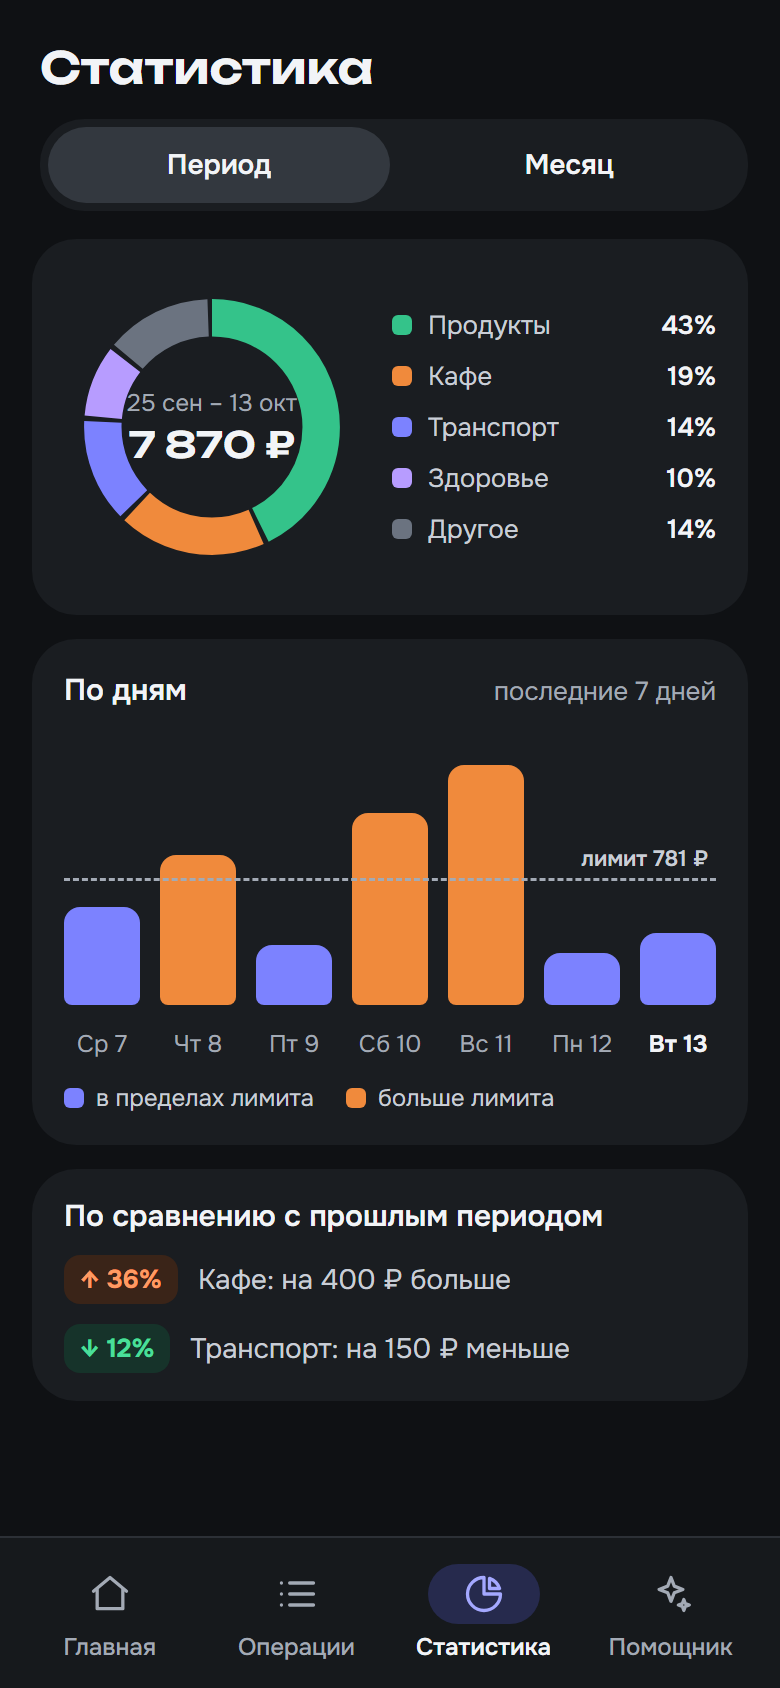
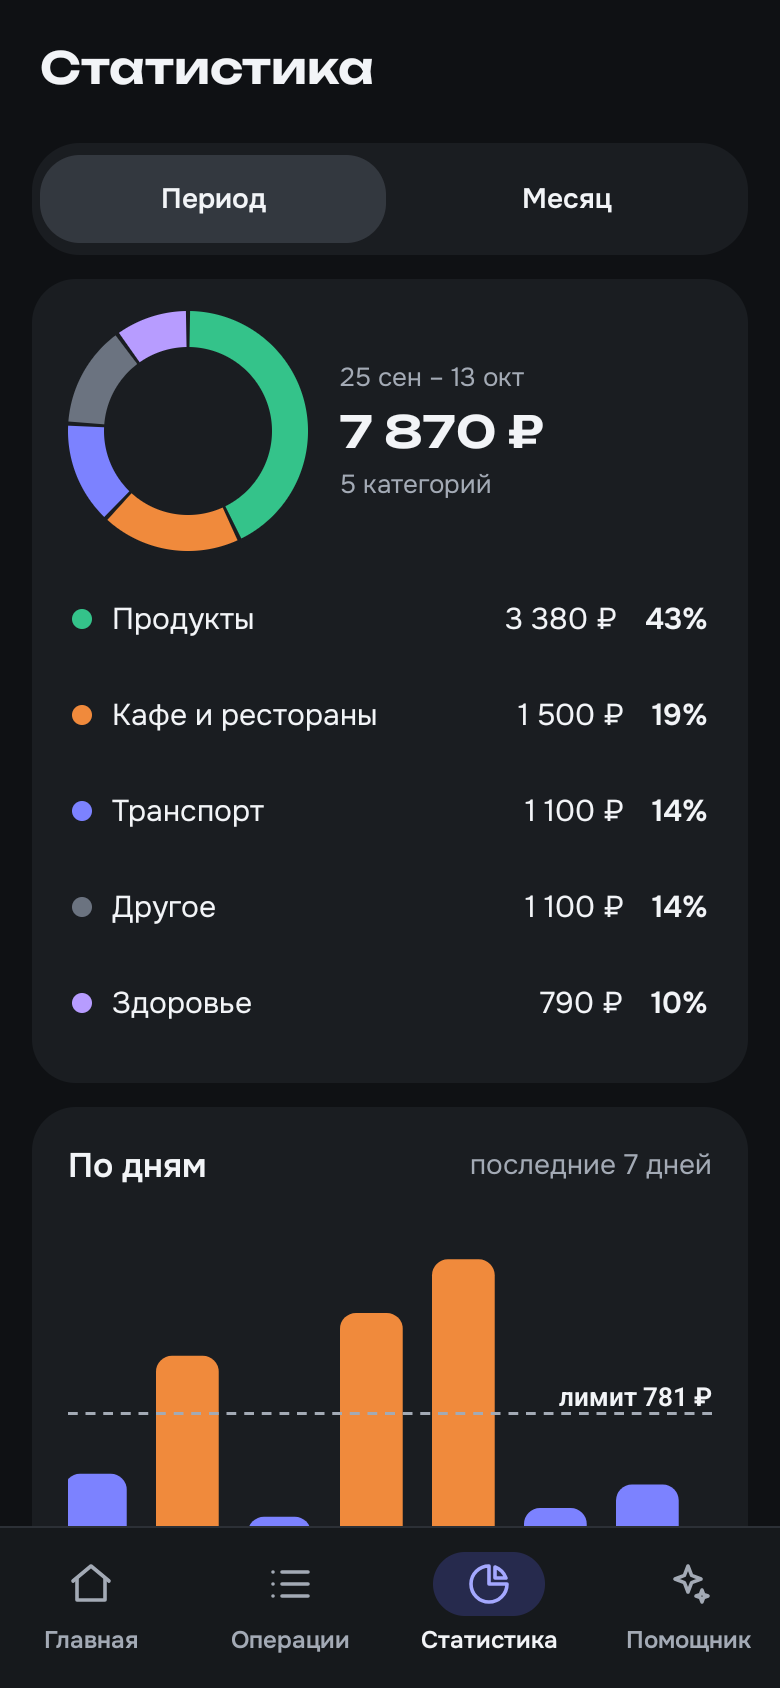
Скриншоты статистики с приложения в светлой и тёмной теме
Старый макет статистики удалён: экраны снова совпадают с приложением (список категорий, раскрытое «Остальное», операции категории). Тег кольца для UI-тестов.

diff --git a/app/src/main/java/ru/hznik/budget/ui/stats/CategoryDonut.kt b/app/src/main/java/ru/hznik/budget/ui/stats/CategoryDonut.kt
@@ -30,6 +30,7 @@ import androidx.compose.ui.geometry.Size
 import androidx.compose.ui.graphics.Color
 import androidx.compose.ui.graphics.drawscope.Stroke
 import androidx.compose.ui.input.pointer.pointerInput
+import androidx.compose.ui.platform.testTag
 import androidx.compose.ui.res.stringResource
 import androidx.compose.ui.semantics.clearAndSetSemantics
 import androidx.compose.ui.semantics.contentDescription
@@ -63,6 +64,9 @@ private const val COLLAPSED_ROWS = 5
 
 /** Выбор доли кольца: id категории или «Остальное». */
 private const val REST_KEY = -1L
+
+/** Тег кольца для UI-тестов: по долям кольца TalkBack и тесты отдельно не ходят. */
+const val STATS_DONUT_TAG = "stats_donut"
 
 /** Номер доли под углом [angleFromTop] (градусы по часовой стрелке от верха) для долей с суммами [values]. */
 internal fun sliceAt(angleFromTop: Float, values: List<Long>): Int? {
@@ -123,7 +127,7 @@ fun CategoryCard(range: DateRange, breakdown: CategoryBreakdown, onOpenCategory:
                     selected = if (selected == key) null else key
                     if (key == REST_KEY && selected == REST_KEY) expanded = true
                 },
-                modifier = Modifier.size(DONUT_SIZE),
+                modifier = Modifier.size(DONUT_SIZE).testTag(STATS_DONUT_TAG),
             )
             Column(verticalArrangement = Arrangement.spacedBy(2.dp), modifier = Modifier.weight(1f)) {
                 if (selectedSlice == null) {

diff --git a/docs/design/README.md b/docs/design/README.md
@@ -17,11 +17,14 @@
 | Новая трата | ![](screenshots/Add.png) | ![](screenshots/DarkAdd.png) |
 | Операции | ![](screenshots/Operations.png) | ![](screenshots/DarkOperations.png) |
 | Статистика | ![](screenshots/Stats.png) | ![](screenshots/DarkStats.png) |
+| Статистика: по дням и сравнение | ![](screenshots/StatsDays.png) | ![](screenshots/DarkStatsDays.png) |
+| Статистика: раскрытое «Остальное» | ![](screenshots/StatsOther.png) | ![](screenshots/DarkStatsOther.png) |
+| Операции категории из статистики | ![](screenshots/CategoryOperations.png) | ![](screenshots/DarkCategoryOperations.png) |
 | ИИ-помощник | ![](screenshots/Assistant.png) | ![](screenshots/DarkAssistant.png) |
 | Онбординг: автоимпорт | ![](screenshots/Onboarding.png) | ![](screenshots/DarkOnboarding.png) |
 | Сверка с банком | ![](screenshots/Reconcile.png) | ![](screenshots/DarkReconcile.png) |
 
-Исходник каждого снимка лежит в `mockups/` под тем же именем с расширением `.dc.html`.
+Исходник каждого снимка лежит в `mockups/` под тем же именем с расширением `.dc.html`. Исключение — экраны статистики (`Stats*`, `CategoryOperations`): на этапе add-statistics карточку категорий переделали (список категорий под кольцом, раскрытие «Остального», переход к операциям категории), поэтому старый макет статистики удалён, а снимки сделаны с самого приложения на эмуляторе в том же размере. Запись о статистике в `canvas.json` относится к удалённому макету.
 
 Тёмные варианты и `MainMismatch` не содержат своей вёрстки: они подключают светлый экран с параметром `theme="dark"` или `state="mismatch"`. Палитра обеих тем описана в объекте `THEMES` в начале скрипта каждого экрана, состояние «перерасход» главного экрана задаётся параметром `state="overspend"` в `Main.dc.html`.
 
